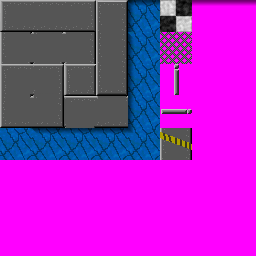
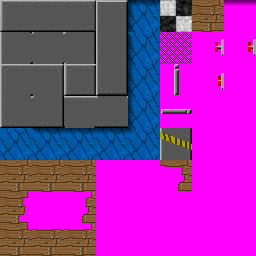
added new level

diff --git a/src/main/java/com/teamplay/data/Level.java b/src/main/java/com/teamplay/data/Level.java
@@ -67,7 +67,7 @@ public class Level {
         if(walls != null && walls.getCell(x,y) != null){
             TiledMapTile t = walls.getCell(x,y).getTile();
             if(t != null){
-                Object walkable = t.getProperties().get("walkable");
+                String walkable = t.getProperties().get("walkable", String.class);
                 return walkable == null || ((String) walkable).equalsIgnoreCase("true");
             }
         }

diff --git a/src/main/java/com/teamplay/state/PlayState.java b/src/main/java/com/teamplay/state/PlayState.java
@@ -46,7 +46,7 @@ public class PlayState extends GameState {
     @Override
     public void init() {
 
-        level = new Level("test");
+        level = new Level("level1");
 
         stateTime = 0f;
 
